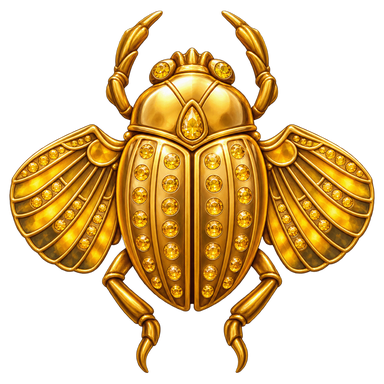
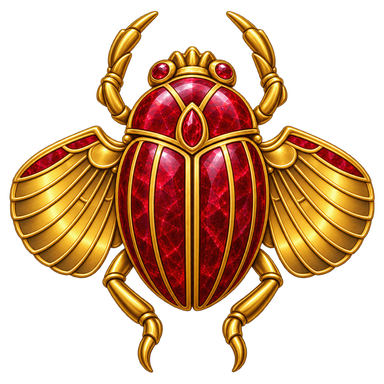
Pharaon d'Or : corrige le scarabée d'or/de rubis inversés, ajoute un éclat sur la case au moment où un scarabée s'envole
Les images CG.png (Scarabée d'Or, relié au Jackpot Aurum) et CR.png
(Scarabée de Rubis, relié aux Faveurs du Sphinx) avaient été inverties
à l'intégration : le scarabée visuellement rouge chargeait le palmier
d'or et inversement. Les fichiers sont maintenant dans le bon ordre.

Chaque scarabée ramassé fait maintenant briller sa case (halo + anneau
dans la couleur de son palmier) au moment où il s'envole, en plus de
l'animation d'aspiration déjà en place.

Claude-Session: https://claude.ai/code/session_01FGCdK8tLE1HwekAccXtSwC

diff --git a/css/styles.css b/css/styles.css
@@ -1299,6 +1299,19 @@ html.gx-lock,html.gx-lock body{overflow:hidden;overscroll-behavior:none}
 .cell.sacred::after{content:"✦";position:absolute;top:-2px;right:2px;font-size:11px;color:#FFF3C4;text-shadow:0 0 6px #FFD54A;animation:sacredSpark 1s ease-in-out infinite}
 @keyframes sacredPulse{50%{filter:drop-shadow(0 0 12px #FFF3C4) drop-shadow(0 0 22px #FFD54A)}}
 @keyframes sacredSpark{50%{transform:scale(1.4) rotate(20deg);opacity:.7}}
+/* Scarabée récolté : la case s'illumine dans la couleur de son palmier au moment
+   où il s'envole (voir flyToTree dans slots.js), pour bien montrer laquelle vient
+   de charger l'arbre. */
+.scarab-glow{position:absolute;inset:-10%;z-index:3;border-radius:14px;pointer-events:none;
+  background:radial-gradient(circle,color-mix(in srgb,var(--sc) 65%,#fff) 0%,var(--sc) 38%,transparent 72%);
+  opacity:0;animation:scarabGlow .62s ease-out forwards}
+.scarab-glow::after{content:"";position:absolute;inset:8%;border-radius:10px;border:2px solid var(--sc);opacity:0;animation:scarabRing .62s ease-out forwards}
+.scarab-glow::before{content:"";position:absolute;inset:0;border-radius:14px;box-shadow:0 0 0 0 var(--sc);animation:scarabFlash .62s ease-out forwards}
+@keyframes scarabGlow{0%{opacity:0;transform:scale(.5)}22%{opacity:1;transform:scale(1.14)}100%{opacity:0;transform:scale(1.4)}}
+@keyframes scarabRing{0%{opacity:0;transform:scale(.7)}28%{opacity:1;transform:scale(1)}100%{opacity:0;transform:scale(1.7)}}
+@keyframes scarabFlash{0%{box-shadow:0 0 18px 6px color-mix(in srgb,var(--sc) 80%,transparent)}100%{box-shadow:0 0 0 0 transparent}}
+.cell.scarab-pop .symbadge{animation:scarabSymPop .5s ease-out}
+@keyframes scarabSymPop{0%{filter:brightness(1)}30%{transform:scale(1.22);filter:brightness(1.7) drop-shadow(0 0 14px var(--sc))}100%{transform:scale(1);filter:brightness(1)}}
 
 /* ============ Petit bonus « Les Faveurs du Sphinx » ============ */
 .pyr.sph .pyr-top{justify-content:center}

diff --git a/js/games/slots.js b/js/games/slots.js
@@ -71,6 +71,7 @@ const symBadge=(s,mini)=>{
    dans un même tour, et silhouette de palmier partagée par les 3 arbres (seule la
    couleur --pc, posée par la classe .palm-jp/.palm-bonus/.palm-mini, change). ---- */
 const TREE_ORDER=['jp','bonus','mini'];
+const TREE_COLOR={jp:'#FFD54A',bonus:'#5B9CF6',mini:'#FF6B6B'};
 const PALM_SVG=`<svg viewBox="0 0 48 64" aria-hidden="true" fill="currentColor"><path d="M21.4 64V33h5.2v31z"/>
   <path d="M24 30C15 26 10 18 4 19c3-9 13-10 20-3-3-6-2-14 2-18-2 7 0 14 4 18 7-7 17-6 20 3-6-1-11 7-20 11 4 2 7 6 8 11-6-3-11-4-14-2-3-2-8-1-14 2 1-5 4-9 8-11-9-4-14 1-20-1z"/>
   <ellipse cx="24" cy="30" rx="4.4" ry="3.2" opacity=".9"/></svg>`;
@@ -176,6 +177,13 @@ function slotMachine(cfg){
         const palmIc=$('.palm-'+tree+' .palm-ic',palmsEl);
         const img=cell&&cell.querySelector('img,svg');
         if(!cell||!palmIc||!img){resolve();return}
+        if(!REDUCED){
+          const glow=document.createElement('i');
+          glow.className='scarab-glow';glow.style.setProperty('--sc',TREE_COLOR[tree]||'#FFD54A');
+          cell.appendChild(glow);
+          cell.classList.remove('scarab-pop');void cell.offsetWidth;cell.classList.add('scarab-pop');
+          setTimeout(()=>glow.remove(),650);
+        }
         const a=cell.getBoundingClientRect(),b=palmIc.getBoundingClientRect();
         const clone=img.cloneNode(true);
         clone.className='';clone.removeAttribute('style');
